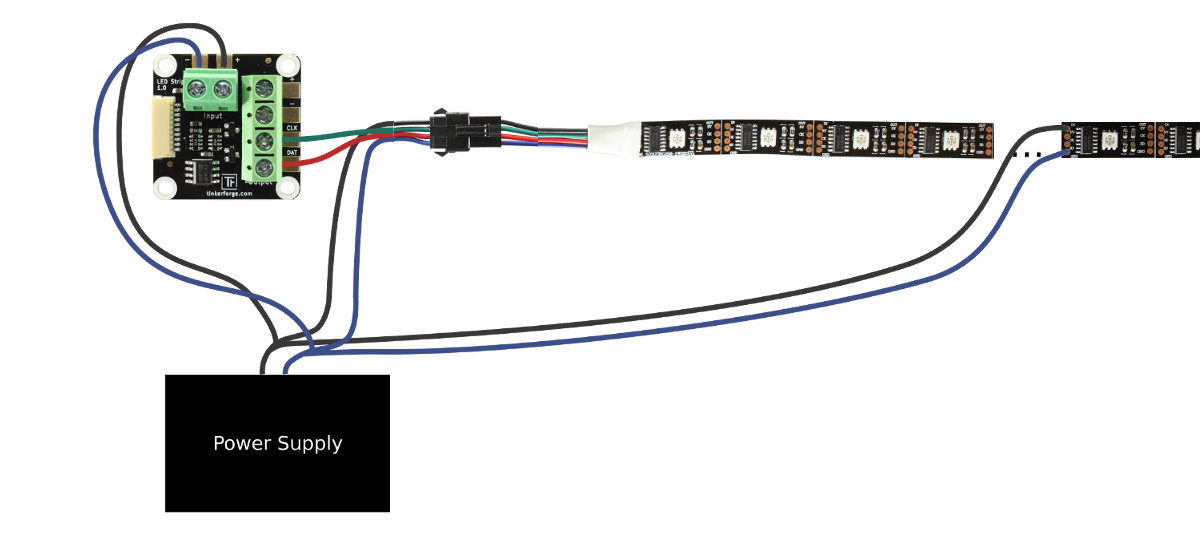
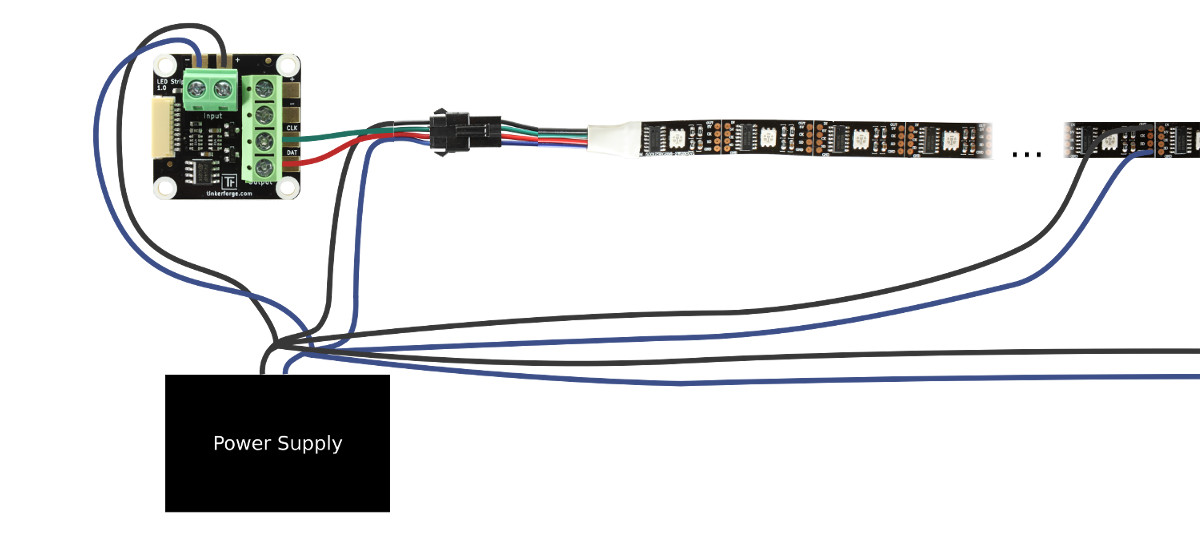
led_strip: add usage description and necessary images blinkenlights fix some bugs

Changed region(s): [[0.2158, 0.2097, 1.0, 0.7491], [0.8325, 0.5094, 0.8633, 0.5393]]

diff --git a/de/source/Hardware/Bricklets/LED_Strip.rst b/de/source/Hardware/Bricklets/LED_Strip.rst
@@ -165,7 +165,7 @@ Anschlussmöglichkeit
 
 Das nachfolgende Bild stellt die Schnittstellen des LED Strip Bricklets dar.
 
-.. FIXME image:: /Images/Bricklets/bricklet_led_strip_connection_600.jpg
+.. image:: /Images/Bricklets/bricklet_led_strip_connection_350.jpg
    :scale: 100 %
    :alt: LED Strip Bricklet Interface Description
    :align: center
@@ -236,21 +236,67 @@ Freie Bricklet Ports              Maximale Anzahl an RGB LEDs
 LED Steifen
 -----------
 
-TODO:
+Es existiert keine allgemeine farbliche Kennzeichnung für LED Streifen.
+Insbesondere verstoßen die Farben oftmals gegen Konventionen. In diesem Beispiel
+ist der schwarze Draht 5V, grün ist die Taktleitung, rot ist die Datenleitung 
+und der blaue Draht ist Masse.
 
-* How to use them?
-* Where to inject power?
+Als erstes wird die Takt- und Datenleitung des ersten LED Streifen und Masse der 
+Spannungsversorgung mit dem LED Strip Bricklet. Dabei muss darauf geachtet 
+werden, dass der Takt- und Dateneingang des ersten Streifen mit dem Takt-
+und Datenausgang des LED Strip Bricklets verbunden wird.
 
+Falls die Spannung  der Versorgung gemessen werden soll, müssen die 5V der
+Stromversorgung mit dem LED Strip Bricklet verbunden werden. Es können weitere
+LED Streifen in Reihe (hintereinander) an den ersten LED Streifen angeschlossen 
+werden (dabei müssen die
+:ref:`RAM Beschränkungen <led_strip_bricklet_ram_constraints>` beachtet werden).
+
+Es ist nicht ausreichend die LED Streifen nur an deren Anfang zu versorgen.
+Wir empfehlen mindestens alle 2 Meter neu einzuspeisen. Dazu kann zum Beispiel
+pro Einspeisepunkt ein eigenes Kabel zur Stromversorgung geführt werden. 
+Somit wird der elektrische Widerstand reduziert und Leitungsverluste minimiert.
+Das nachfolgende Bild zeigt ein Beispiel.
+
+.. image:: /Images/Bricklets/bricklet_led_strip_strip_wiring_600.jpg
+   :scale: 100 %
+   :alt: LED Strip Bricklet wiring for LED Strip
+   :align: center
+   :target: ../../_images/Bricklets/bricklet_led_strip_strip_wiring_1500.jpg
 
 .. _led_strip_bricklet_led_pixels:
 
 LED Pixel
 ---------
 
-TODO:
+Die Verbindung zu LED Pixeln ist sehr ähnlich zu der Verbindung zu LED Streifen.
+Es existiert ebenfalls keine allgemeine farbliche Kennzeichnung. Im 
+nachfolgenden Beispiel ist der rote Draht 5V, blau ist Masse, die Taktleitung
+ist grün und die Datenleitung ist weiß.
 
-* How to use them?
-* Where to inject power?
+Die Takt- und Datenleitung vom ersten LED Pixel Bündel, sowie Masse von der 
+Stromversorgung werden mit dem LED Strip Bricklet verbunden. Dabei muss darauf 
+geachtet werden, dass der Takt- und Dateneingang des ersten Pixels mit dem Takt-
+und Datenausgang des LED Strip Bricklets verbunden wird. Soll die 
+Versorgungsspannung gemessen werden, muss auch 5V von der Stromversorgung an das
+Bricklet angeschlossen werden. Sollen mehrere Bündel verwendet werden, so können
+diese in Reihe (hintereinander) an das erste Bündel angeschlossen werden
+(dabei müssen die
+:ref:`RAM Beschränkungen <led_strip_bricklet_ram_constraints>` beachtet werden).
+
+Typischerweise besitzt jedes Pixel Bündel Drähte zur Stromversorgung am Anfang
+und Ende des Bündels. Diese sollten über zusätzliche Kabel mit der 
+Stromversorgung verbunden werden. Benachbarte Drähte können auch zusammengefasst
+werden. Diese Maßnahme reduziert den elektrischen Widerstand und minimiert
+die Leitungsverluste der Stromversorgung.
+
+
+.. image:: /Images/Bricklets/bricklet_led_strip_pixel_wiring_800.jpg
+   :scale: 100 %
+   :alt: LED Strip Bricklet wiring for Pixel
+   :align: center
+   :target: ../../_images/Bricklets/bricklet_led_strip_pixel_wiring_1500.jpg
+
 
 
 .. _led_strip_bricklet_fixed_frame_rate:

diff --git a/en/source/Hardware/Bricklets/LED_Strip.rst b/en/source/Hardware/Bricklets/LED_Strip.rst
@@ -166,7 +166,7 @@ Connectivity
 
 The following image depicts the interfaces of the LED Strip Bricklet.
 
-.. FIXME image:: /Images/Bricklets/bricklet_led_strip_connection_600.jpg
+.. image:: /Images/Bricklets/bricklet_led_strip_connection_350.jpg
    :scale: 100 %
    :alt: LED Strip Bricklet Interface Description
    :align: center
@@ -239,10 +239,30 @@ Free Bricklet Ports               Maximum number of RGB LEDs
 LED Strips
 ----------
 
-TODO:
+There is no general color code for LED strips. Especially sometimes the color 
+codes are against any agreements. In this example the black wire is 5V, green is 
+clock, red is data and the blue wire is ground.
 
-* How to use them?
-* Where to inject power?
+Connect clock and data of the first strip to the LED Strip Bricklet and 
+connect ground of your power supply to it. Pay attention to connect the clock 
+and data input of the first strip to the clock and data output of the LED Strip 
+Bricklet.
+
+If you want to measure your power supply voltage connect 5V to the Bricklet, 
+too. You can connect more LED strips to the first strip in serial (have the 
+:ref:`RAM constraints <led_strip_bricklet_ram_constraints>` in mind).
+
+It is not sufficient to power the led strips only at one point. We recommend to
+feed power to the strip at least every two meters. This could be done
+by connecting a cable between the strip and the power supply for each supply 
+point. This will reduce the resistance and minimize the conduction losses.
+See the following image as an example for it.
+
+.. image:: /Images/Bricklets/bricklet_led_strip_strip_wiring_600.jpg
+   :scale: 100 %
+   :alt: LED Strip Bricklet wiring for LED Strip
+   :align: center
+   :target: ../../_images/Bricklets/bricklet_led_strip_strip_wiring_1500.jpg
 
 
 .. _led_strip_bricklet_led_pixels:
@@ -250,12 +270,34 @@ TODO:
 LED Pixels
 ----------
 
-TODO:
+The connection of LED pixels to the LED Strip Bricklet is similar to the
+connection of LED strips. There is no general color code for LED pixels. 
+In the following example the red wire is 5V, blue is ground, clock is green and 
+data is the white wire.
 
-* How to use them?
-* Where to inject power?
+Connect clock and data of the first bunch of pixels to the LED Strip Bricklet 
+and connect ground to it. Pay attention to connect the clock and data input of
+the first pixel to the clock and data output of the LED Strip Bricklet.
+If you want to measure the voltage of your power supply connect 5V to the 
+Bricklet, too. You can connect more bunches of LED pixel to the first bunch in 
+serial (have the :ref:`RAM constraints <led_strip_bricklet_ram_constraints>` in 
+mind). 
+
+Typically each bunch has power supply wires at the beginning and the end
+of the bunch. Connect these over additional wires to the power supply. 
+You can unite nearby wires. This will reduce the resistance and minimize the 
+conduction losses.
 
 
+
+.. image:: /Images/Bricklets/bricklet_led_strip_pixel_wiring_800.jpg
+   :scale: 100 %
+   :alt: LED Strip Bricklet wiring for Pixel
+   :align: center
+   :target: ../../_images/Bricklets/bricklet_led_strip_pixel_wiring_1500.jpg
+
+
+   
 .. _led_strip_bricklet_fixed_frame_rate:
 
 Fixed Frame Rate

diff --git a/en/source/Kits/Blinkenlights/Blinkenlights.rst b/en/source/Kits/Blinkenlights/Blinkenlights.rst
@@ -146,7 +146,8 @@ acoustic feedback or to display the score.
 
 Before starting you have to configure the host and port. If you use the standard
 kit and have connected it directly to your PC via USB "localhost" and "4223" is 
-fine. If you extended the kit by :ref:`Extensions <master_brick_extension>` or 
+fine. If you extended the kit by 
+:ref:`Extensions <product_overview_master_extensions>` or 
 want to control the kit from another PC you have to enter the IP or hostname
 of the extension or the PC where the kit is connected to. Below the 
 input boxes is a table which shows you the connected Bricks and 
